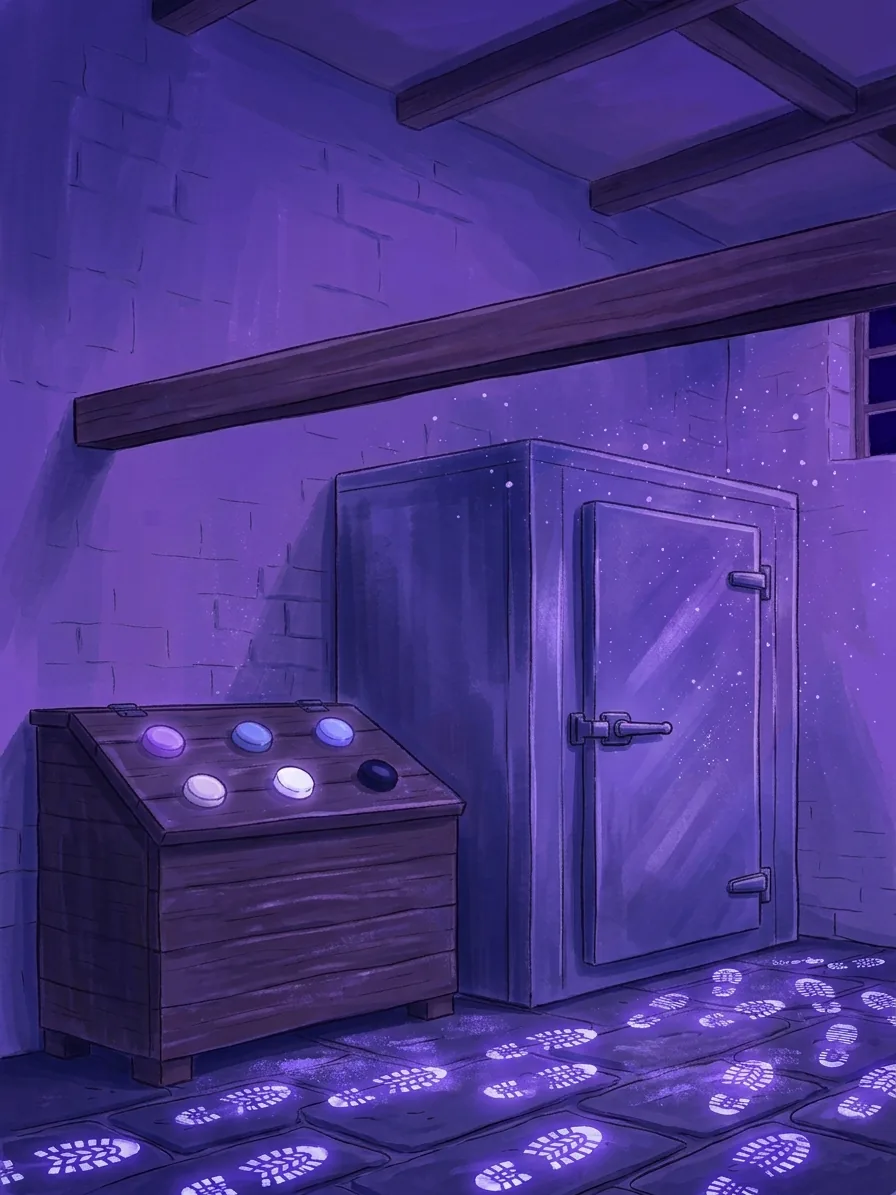
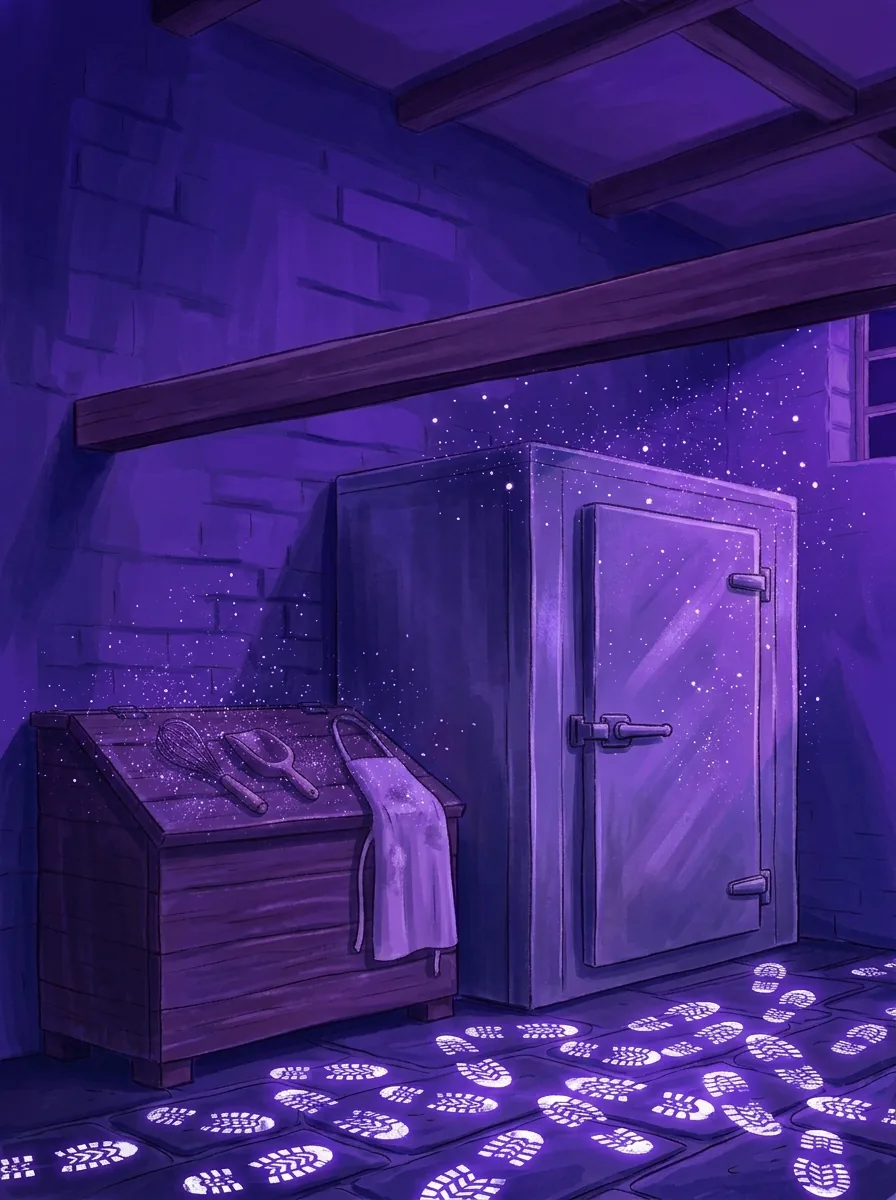
Zoekplaat in de PWA (search, hits in de save), magazijn-graankist, sw v24
Claude-Session: https://claude.ai/code/session_01DMxcKEWibzVruXXDfbTfQT

diff --git a/js/engine.js b/js/engine.js
@@ -155,6 +155,7 @@ function parseThing(o) {
     consumes: optBool(o, 'consumes', false),
     code, input: optStr(o, 'input', 'digits'), len: optInt(o, 'len', code === null ? 0 : code.length),
     closeup: strOrNull(o, 'closeup'), visibleWhen: condOf(o, 'visible'),
+    search: Array.isArray(o.search) ? o.search.map((s) => ({ id: reqStr(s, 'id'), name: reqStr(s, 'name'), zone: zone(s) })) : [],
   });
 }
 
@@ -223,6 +224,8 @@ export const Outcome = Object.freeze({
   wrong() { return { kind: 'wrong' }; },
   applied(item, remaining) { return { kind: 'applied', item, remaining }; },
   needsCode(thing) { return { kind: 'needsCode', thing }; },
+  /** The thing is a search plate with targets left: open it, then Progress.searchTap. */
+  search(thing) { return { kind: 'search', thing }; },
 });
 
 export const ExitAsk = Object.freeze({
@@ -241,6 +244,8 @@ export class Progress {
     this.items = new Map();
     /** @type {Set<string>} */
     this.found = new Set();
+    /** Search targets found, as `<thingId>/<targetId>`. Saved. */
+    this.hits = new Set();
     /** Needed items already applied, per key: a thing id or `exit:<roomId>`. Saved. */
     this.applied = new Map();
     /** The item chosen in the inventory, or null. Not saved. */
@@ -342,8 +347,31 @@ export class Progress {
       if (!r) return Outcome.wrong();
       if (r.left > 0) return Outcome.applied(r.item, r.left);
     }
+    if (thing.search && thing.search.length > 0 && this.searchLeft(thing) > 0) return Outcome.search(thing);
     if (thing.code !== null) return Outcome.needsCode(thing);
     return this.#open(thing);
+  }
+
+  isHit(thing, t) { return this.hits.has(`${thing.id}/${t.id}`); }
+
+  searchLeft(thing) { return (thing.search || []).filter((t) => !this.isHit(thing, t)).length; }
+
+  /**
+   * A tap at (x, y), fractions of the plate, on the search plate of thing. A miss is no fault (on a busy plate
+   * misses are the game). Kinds: miss | again | hit {target,left} | done {target,said}.
+   */
+  searchTap(thingOrId, x, y) {
+    this.#touch();
+    const thing = this.#thing(thingOrId);
+    if (!thing || !this.visible(thing) || this.found.has(thing.id)) return { kind: 'miss' };
+    const t = (thing.search || []).find((s) => x >= s.zone.x && x <= s.zone.x + s.zone.w && y >= s.zone.y && y <= s.zone.y + s.zone.h);
+    if (!t) return { kind: 'miss' };
+    if (this.isHit(thing, t)) return { kind: 'again', target: t };
+    this.hits.add(`${thing.id}/${t.id}`);
+    const left = this.searchLeft(thing);
+    if (left > 0) return { kind: 'hit', target: t, left };
+    const open = thing.code !== null || this.#remaining(thing.id, thing.needs).length > 0;
+    return { kind: 'done', target: t, said: open ? Outcome.said(thing.text) : this.#open(thing) };
   }
 
   /** Try the own lock of thing: right opens it, wrong is Outcome.wrong. */
@@ -512,6 +540,7 @@ export class Progress {
       finished: this.finished,
       items: [...this.items.values()].map((i) => ({ id: i.id, name: i.name })),
       found: [...this.found],
+      hits: [...this.hits],
       applied,
       side: this.side,
       hints,
@@ -529,6 +558,7 @@ export class Progress {
     p.finished = optBool(o, 'finished', false);
     if (Array.isArray(o.items)) for (const i of o.items) p.items.set(String(req(i, 'id')), { id: String(i.id), name: String(req(i, 'name')) });
     if (Array.isArray(o.found)) for (const f2 of o.found) p.found.add(String(f2));
+    if (Array.isArray(o.hits)) for (const h2 of o.hits) p.hits.add(String(h2));
     if (isObj(o.applied)) {
       for (const [k, arr] of Object.entries(o.applied)) {
         if (Array.isArray(arr)) p.applied.set(k, new Set(arr.map((x) => String(x))));
@@ -674,7 +704,7 @@ export const Difficulty = Object.freeze({
         r.things.length * 0.6 + chain * 1.0 + (r.exit.code !== null ? 1.5 : 0.5) + 1 + r.combos.length * 0.8
         + r.things.filter((t) => t.code !== null).length * 1.0
         + r.things.filter((t) => t.visibleWhen).length * 0.5
-        + r.variants.length * 0.3,
+        + r.variants.length * 0.3 + r.things.reduce((s, t) => s + (t.search ? t.search.length : 0), 0) * 0.15,
       );
       return { roomId: r.id, things: r.things.length, chain, locks, estMinutes: est };
     });

diff --git a/js/app.js b/js/app.js
@@ -343,6 +343,7 @@ function outcome(p, th, o) {
       if (th.closeup) showCloseup(p, th, msg);
       break;
     }
+    case 'search': showSearch(p, o.thing); break;
     case 'blocked': say(o.text); break;
     case 'wrong': buzz(40); say(t('wrong_use')); break;
     case 'applied': say(t('applied', itemName(p, o.item))); break;
@@ -420,6 +421,45 @@ function showCloseup(p, th, msg, enterCode) {
     buttons: enterCode
       ? [{ label: t('code_title'), primary: true, onClick: enterCode }, { label: t('close') }]
       : [{ label: t('close'), primary: true }],
+  });
+}
+
+/** The search plate of th: tap what is on the list; the last one found opens the thing. */
+function showSearch(p, th) {
+  const src = plate(p.story.id, `${p.room.id}/${th.closeup}`);
+  const img = src ? h('img', { class: 'search-img', src, alt: th.label || '', draggable: 'false' }) : h('div', { class: 'search-img search-blank' });
+  const wrap = h('div', { class: 'search-wrap' }, img);
+  const left = h('div', { class: 'search-left' });
+  const list = h('div', { class: 'search-list' });
+  let m = null;
+  const refresh = () => {
+    list.replaceChildren(...th.search.map((s) => h('span', { class: 'search-name' + (p.isHit(th, s) ? ' found' : '') }, s.name)));
+    left.textContent = t('search_left', p.searchLeft(th));
+    wrap.querySelectorAll('.search-mark').forEach((n) => n.remove());
+    for (const s of th.search) {
+      if (!p.isHit(th, s)) continue;
+      const z = s.zone;
+      const mk = h('div', { class: 'search-mark' });
+      mk.style.cssText = `left:${z.x * 100}%;top:${z.y * 100}%;width:${z.w * 100}%;height:${z.h * 100}%`;
+      wrap.append(mk);
+    }
+  };
+  wrap.addEventListener('click', (e) => {
+    const r = wrap.getBoundingClientRect();
+    const res = p.searchTap(th, (e.clientX - r.left) / r.width, (e.clientY - r.top) / r.height);
+    if (res.kind === 'hit') { buzz(15); refresh(); }
+    else if (res.kind === 'done') {
+      const o = res.said;
+      const msg = o.gained ? gainedMessage(o.text, o.gained) : o.text;
+      m.close(); say(msg); refreshStatus();
+    }
+    saves.save(p);
+  });
+  refresh();
+  m = modal({
+    className: 'closeup search',
+    content: h('div', { class: 'closeup-col' }, wrap, left, list),
+    buttons: [{ label: t('close'), primary: true }],
   });
 }
 

diff --git a/css/style.css b/css/style.css
@@ -141,6 +141,14 @@ button:focus-visible { outline: 2px solid var(--ink); outline-offset: 2px; }
   flex: 1; width: 100%; display: flex; align-items: center; justify-content: center;
   background: var(--card); border-radius: 12px; font-size: 24px; font-weight: 700; color: var(--accent); text-align: center; padding: 12px;
 }
+.search-wrap { position: relative; align-self: center; width: fit-content; max-width: 100%; line-height: 0; cursor: pointer; }
+.search-img { display: block; max-width: 100%; max-height: calc(100dvh - 250px); width: auto; height: auto; user-select: none; -webkit-user-drag: none; }
+.search-blank { background: #211c18; width: min(100%, 60dvh); aspect-ratio: 3 / 4; }
+.search-mark { position: absolute; border: 3px solid #d9a441; background: rgba(217, 164, 65, .2); border-radius: 50%; pointer-events: none; }
+.search-left { color: #d9a441; font-weight: 700; padding: 8px 0 2px; align-self: stretch; }
+.search-list { align-self: stretch; max-height: 96px; overflow-y: auto; font-size: 15px; line-height: 1.5; }
+.search-name:not(:last-child)::after { content: ' \00b7 '; opacity: .5; }
+.search-name.found { text-decoration: line-through; opacity: .55; }
 .closeup-text { padding: 12px 0; white-space: pre-wrap; font-size: 16px; line-height: 1.4; align-self: stretch; }
 .closeup .modal-buttons { justify-content: stretch; margin-top: 0; }
 .closeup .modal-buttons .btn { width: 100%; }

diff --git a/js/i18n.js b/js/i18n.js
@@ -43,6 +43,7 @@ const nl = {
   stars_min: '{0}  ~{1} min',
   applied: 'Je gebruikt {0}. Er ontbreekt nog iets.',
   close: 'Sluiten',
+  search_left: 'Nog {0} te vinden',
   // web only
   to_menu_short: 'Menu',
   zones: 'Toon zones',
@@ -98,6 +99,7 @@ const en = {
   stars_min: '{0}  ~{1} min',
   applied: 'You use {0}. Something is still missing.',
   close: 'Close',
+  search_left: '{0} left to find',
   to_menu_short: 'Menu',
   zones: 'Show zones',
   turn_left: 'Turn left',

diff --git a/sw.js b/sw.js
@@ -1,7 +1,7 @@
 /* Service worker: cache-first app shell, precache of every story file, network-first index.html.
  * To ship a new version: bump CACHE below (escaperoom-v1 -> escaperoom-v2). Old caches are deleted on activate.
  * All paths are relative to this file, so it works under a sub-path (GitHub Pages). */
-const CACHE = 'escaperoom-v23';
+const CACHE = 'escaperoom-v24';
 
 const SHELL = [
   './',
